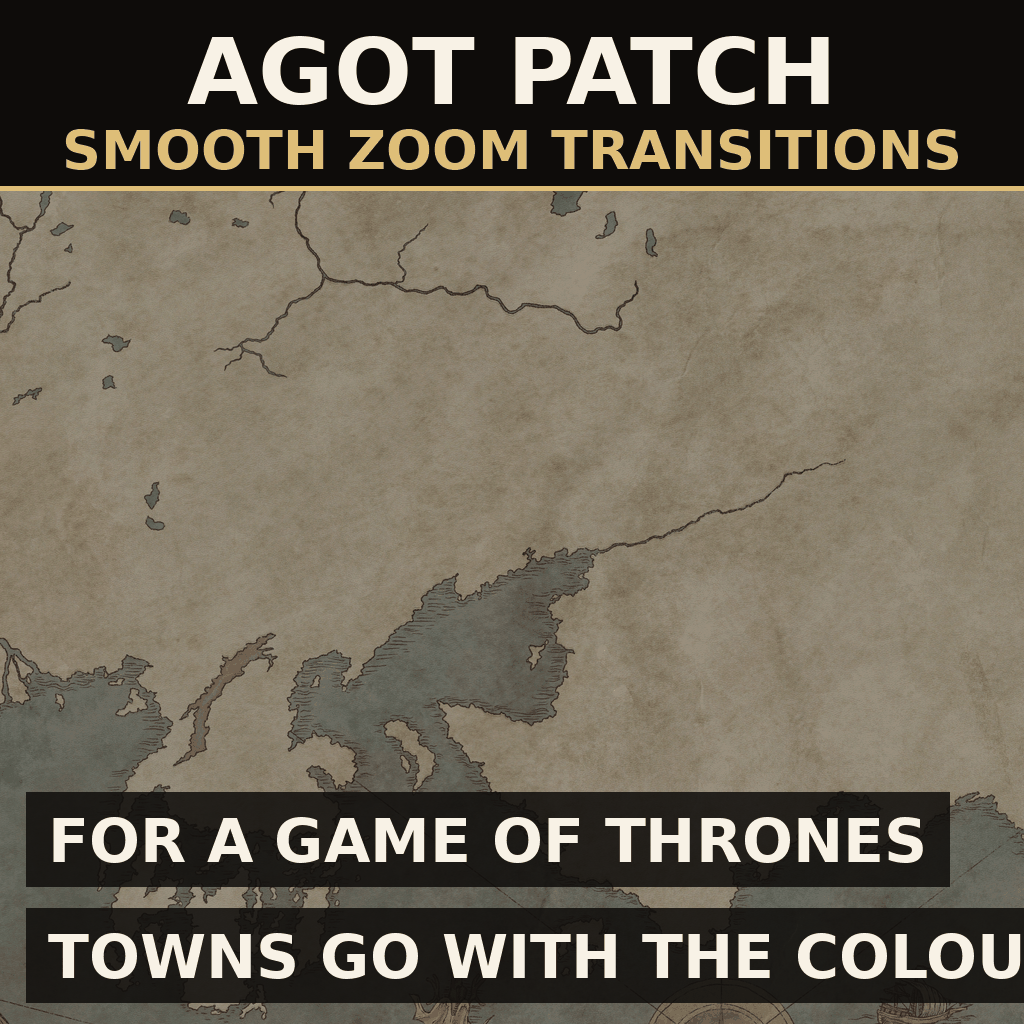
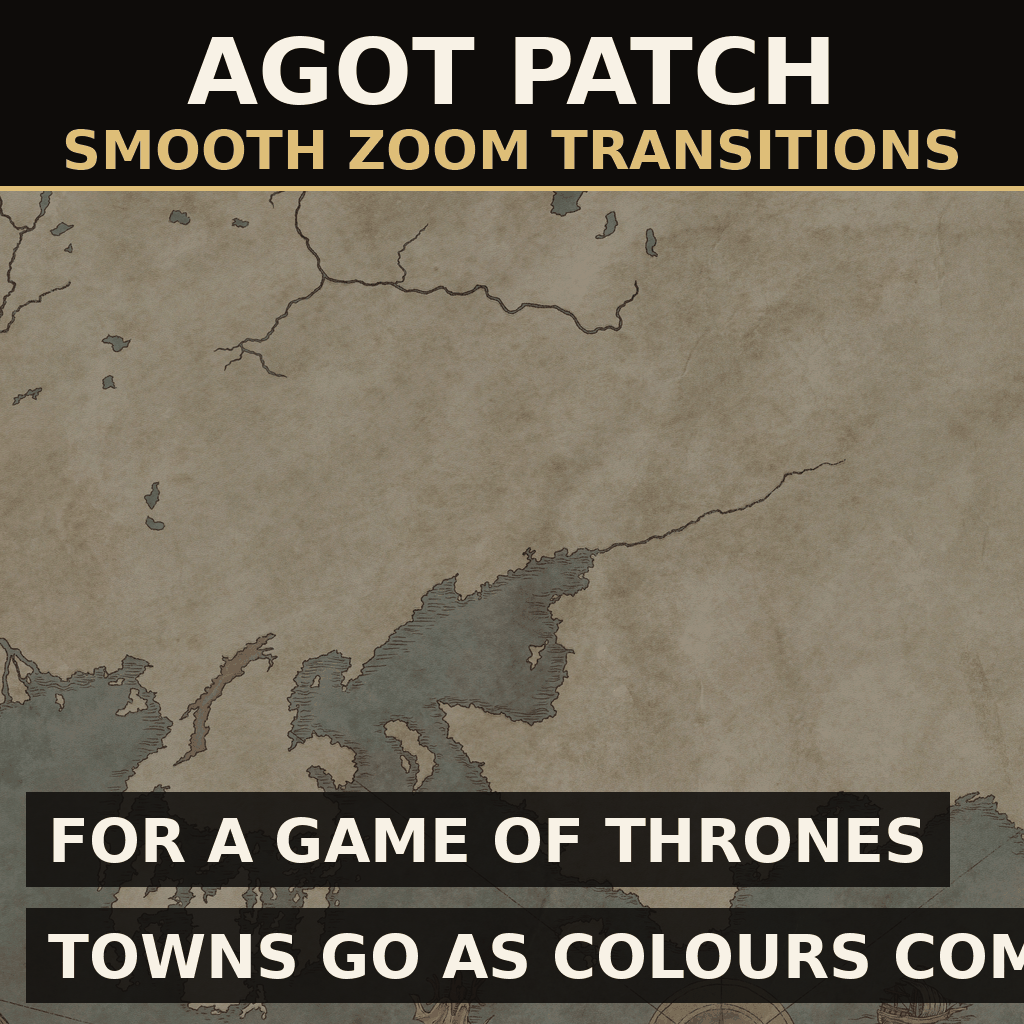
Thumbnail label that fits

Changed region(s): [[0.4375, 0.9062, 1.0, 0.9688]]

diff --git a/steam-workshop/make_thumbnail.py b/steam-workshop/make_thumbnail.py
@@ -33,7 +33,7 @@ def main():
     f_tag = fit(d, "FOR A GAME OF THRONES", 84, S - 52 - 44)
     tag_h = f_tag.size + 22 * 2 - 10
     label(d, S - 2 * tag_h - 44, "FOR A GAME OF THRONES", f_tag)
-    label(d, S - tag_h - 22, "TOWNS GO WITH THE COLOURS", f_tag)
+    label(d, S - tag_h - 22, "TOWNS GO AS COLOURS COME", f_tag)
     finish(canvas, OUT)
 
 if __name__ == "__main__":
